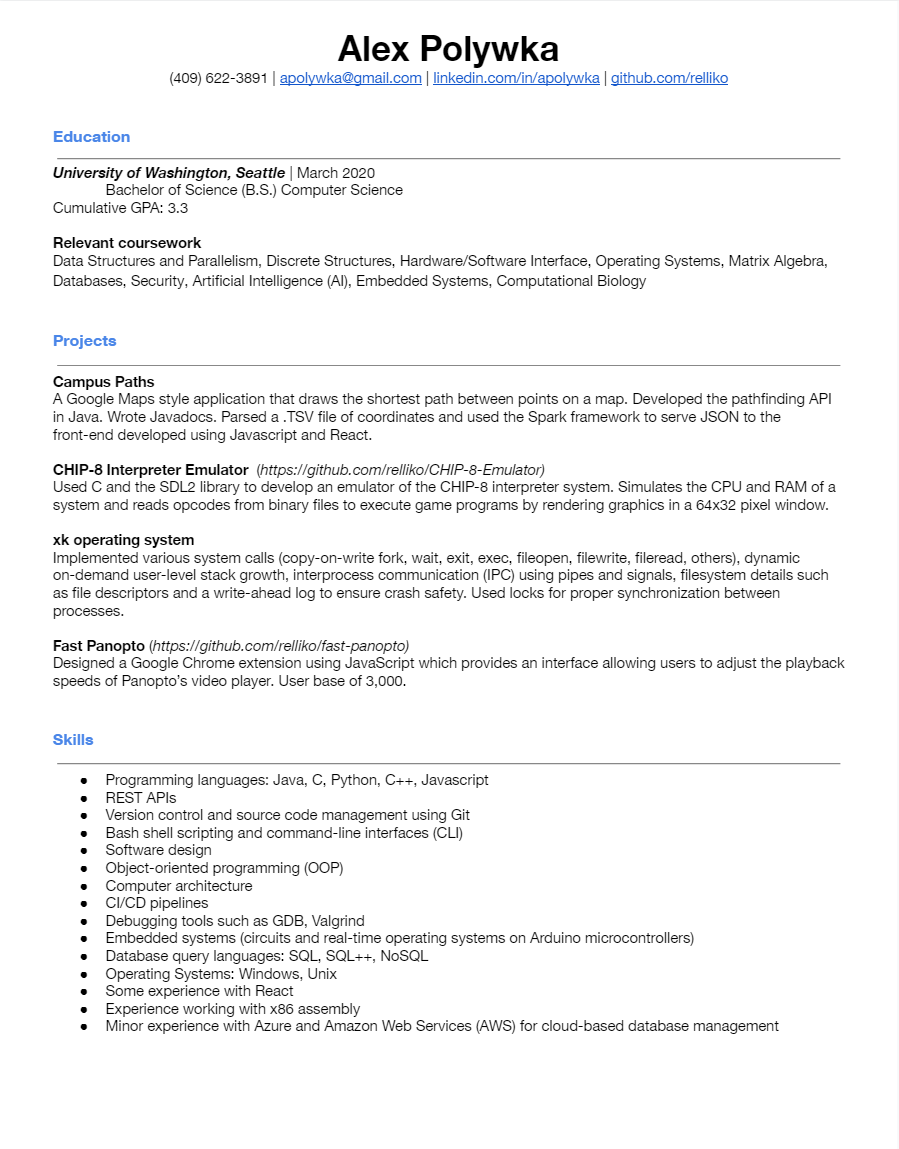
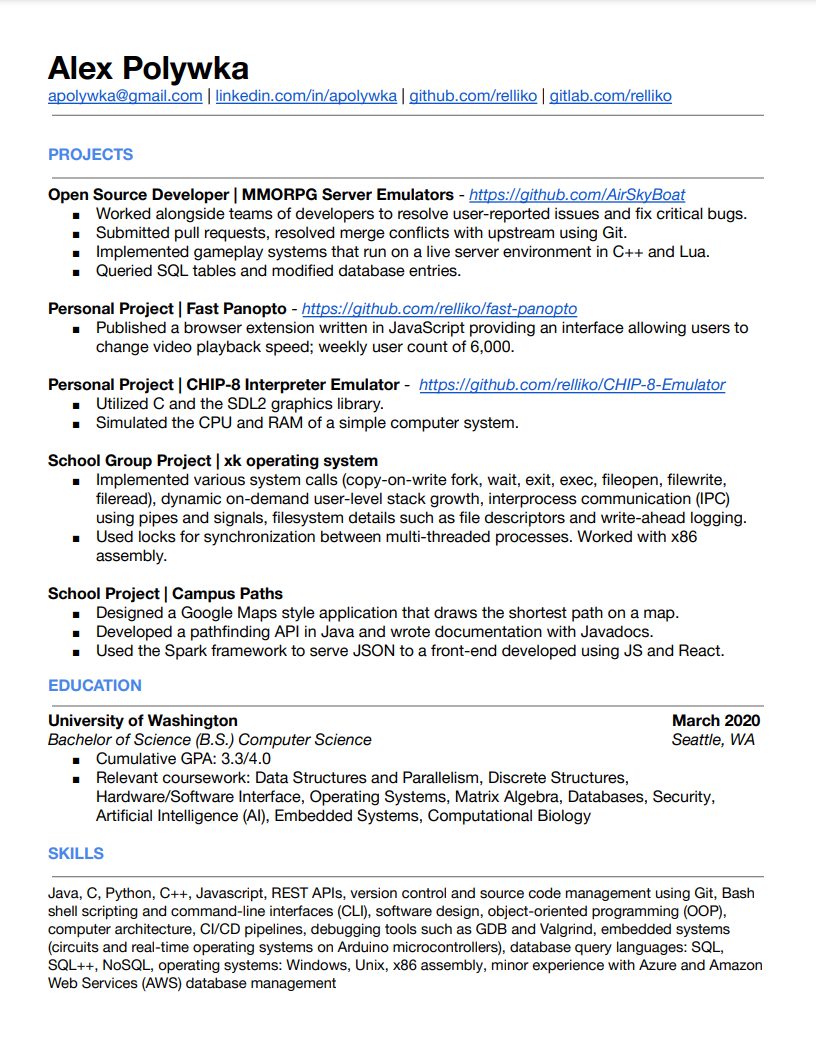
updated resume

Changed region(s): [[0.0613, 0.0312, 0.9498, 0.9375]]

diff --git a/resume.md b/resume.md
@@ -4,6 +4,6 @@ title: "Résumé"
 permalink: /resume/
 ---
 
-My résumé as of 9/21: 
+My résumé as of 2/23: 
 
-![Résumé as of 9/21](https://github.com/relliko/relliko.github.io/blob/main/images/Resume.png?raw=true)
+![Résumé as of 2/23](https://github.com/relliko/relliko.github.io/blob/main/images/Resume.png?raw=true)
